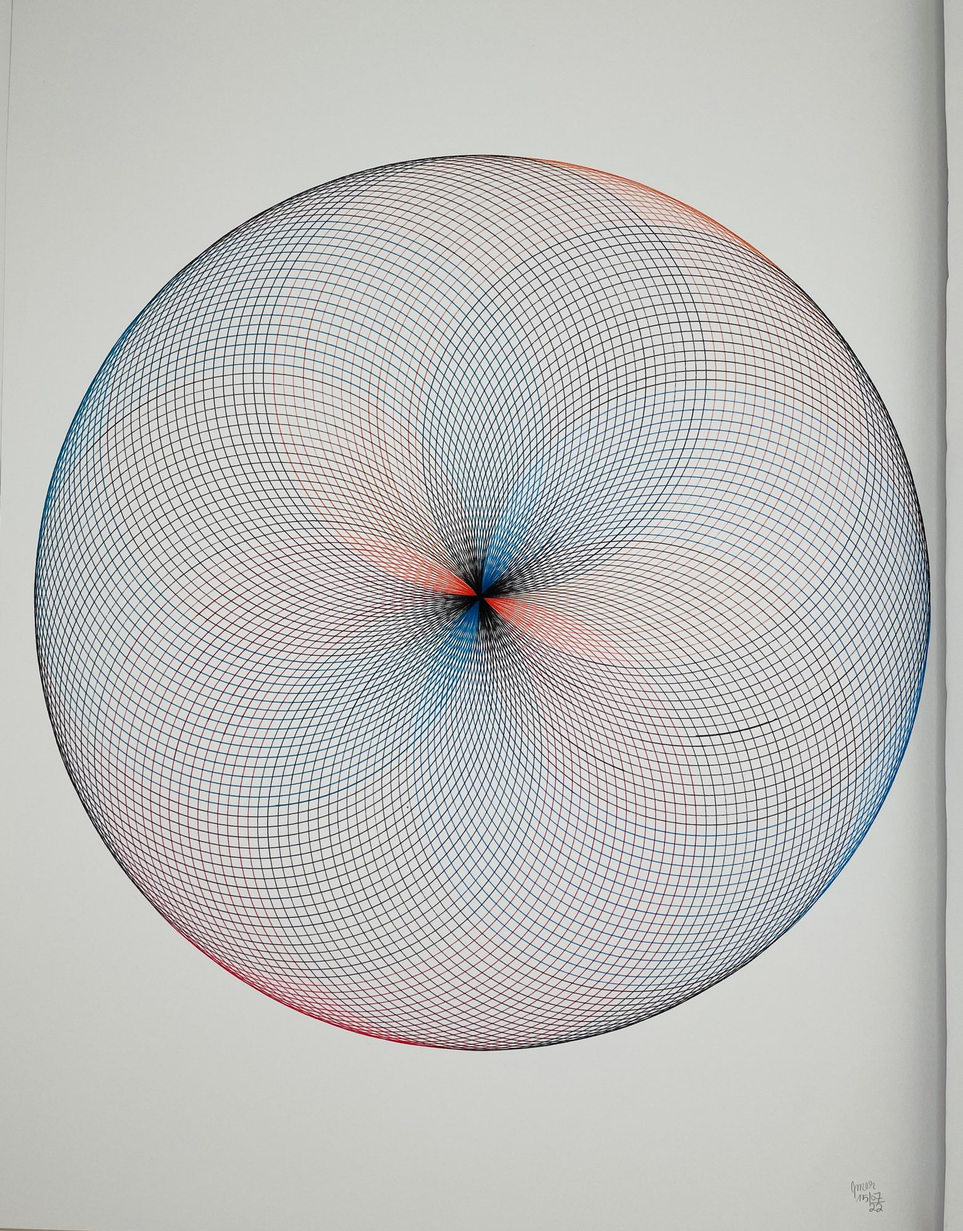
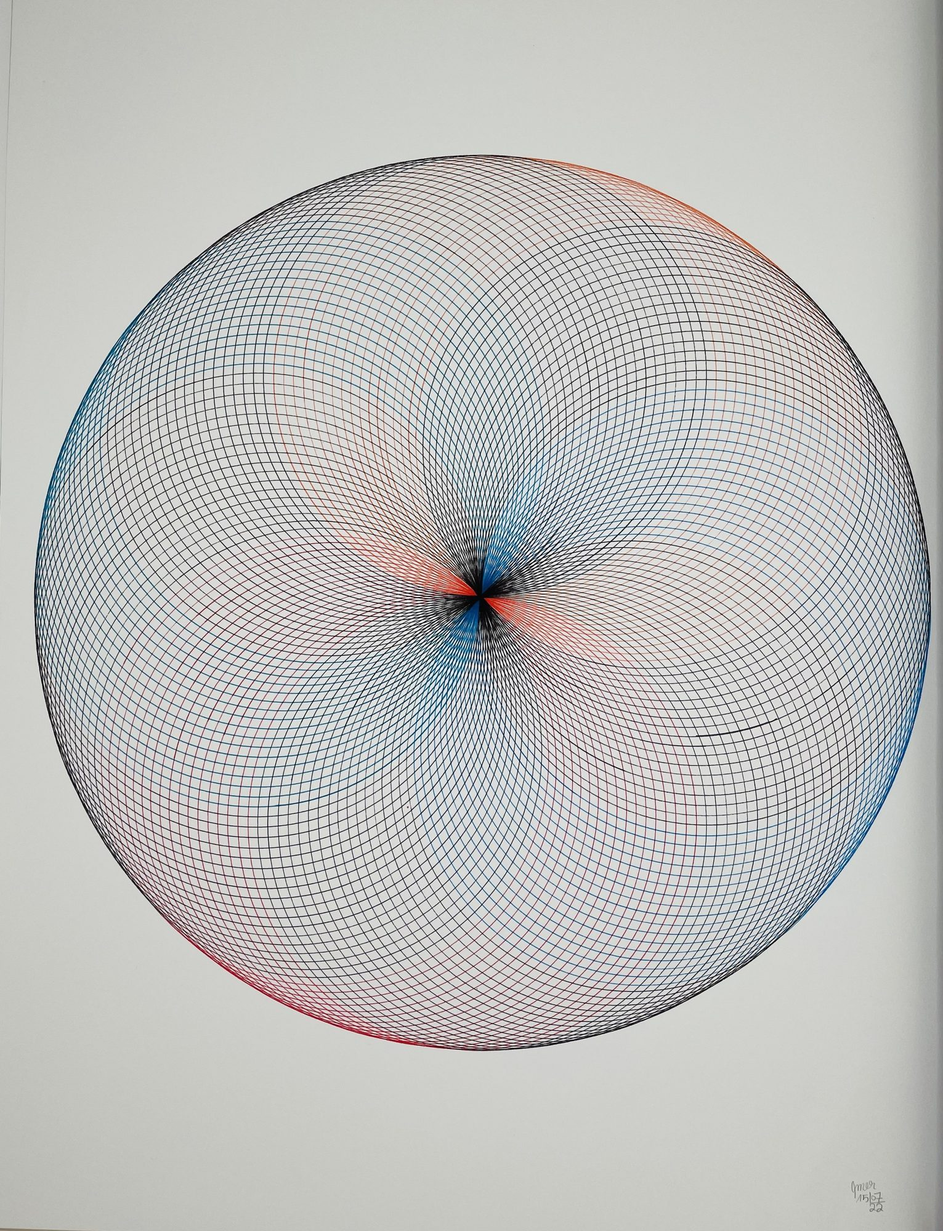
Optical story wording, curly quotes, portrait on About card, gallery intro

diff --git a/style.css b/style.css
@@ -366,6 +366,7 @@ footer {
   transition: transform .5s var(--ease);
 }
 .highlight-card:hover img { transform: scale(1.02); }
+.highlight-card .img-wrap.is-portrait img { object-fit: cover; padding: 0; }
 .highlight-card .card-label {
   font-size: 11px;
   letter-spacing: .12em;
@@ -434,11 +435,11 @@ footer {
   line-height: 1;
 }
 .gallery-hero-desc {
-  max-width: 300px;
+  max-width: 340px;
   font-size: 13px;
   color: var(--muted);
   line-height: 1.7;
-  text-align: right;
+  text-align: left;
 }
 .art-grid {
   max-width: var(--max);
@@ -1002,7 +1003,7 @@ footer {
 [dir="rtl"] .hero-tagline { border-left: none; border-right: 2px solid var(--accent); padding-left: 0; padding-right: 16px; }
 [dir="rtl"] .about-text p:first-of-type::first-letter { float: right; padding: 6px 0 0 10px; }
 [dir="rtl"] .press-body p:first-of-type::first-letter { float: right; padding: 4px 0 0 10px; }
-[dir="rtl"] .gallery-hero-desc { text-align: left; }
+[dir="rtl"] .gallery-hero-desc { text-align: right; }
 
 /* ============================================================
    PRINT

diff --git a/index.html b/index.html
@@ -95,7 +95,7 @@
   </section>
 
   <div class="statement-strip">
-    <blockquote class="cap cap-en active" lang="en">"Art saved me, and it still does."</blockquote>
+    <blockquote class="cap cap-en active" lang="en">“Art saved me, and it still does.”</blockquote>
     <blockquote class="cap cap-fr" lang="fr">«&nbsp;L'art m'a sauvé, et il continue de le faire.&nbsp;»</blockquote>
     <blockquote class="cap cap-ar" lang="ar">«الفن أنقذني، وما زال ينقذني حتى اليوم.»</blockquote>
     <cite>— Amer Musa</cite>
@@ -142,7 +142,7 @@
         </p>
       </a>
       <a class="highlight-card" href="about.html">
-        <div class="img-wrap"><img src="IMAGES/artwork4.jpg" alt="About Amer Musa" loading="lazy"></div>
+        <div class="img-wrap is-portrait"><img src="IMAGES/amer-portrait.jpg" alt="Portrait of Amer Musa" loading="lazy"></div>
         <p class="card-label">
           <span class="cap cap-en active">About</span>
           <span class="cap cap-fr">À propos</span>

diff --git a/work-optical.html b/work-optical.html
@@ -249,13 +249,13 @@
         <p class="work-section-label cap cap-ar" lang="ar">القصة</p>
 
         <div class="work-body cap cap-en active" lang="en">
-          <p>Concentric circles, drawn by hand. A form remembered from somewhere far away.</p>
+          <p>Concentric circles, drawn with compass and rule. A form remembered from somewhere far away.</p>
         </div>
         <div class="work-body cap cap-fr" lang="fr">
-          <p>Des cercles concentriques, tracés à la main. Une forme venue de loin.</p>
+          <p>Des cercles concentriques, tracés au compas et à la règle. Une forme venue de loin.</p>
         </div>
         <div class="work-body cap cap-ar" lang="ar">
-          <p>دوائر متراكزة، مرسومة باليد. شكلٌ آتٍ من بعيد.</p>
+          <p>دوائر متراكزة، مرسومة بالفرجار والمسطرة. شكلٌ آتٍ من بعيد.</p>
         </div>
       </div>
 
